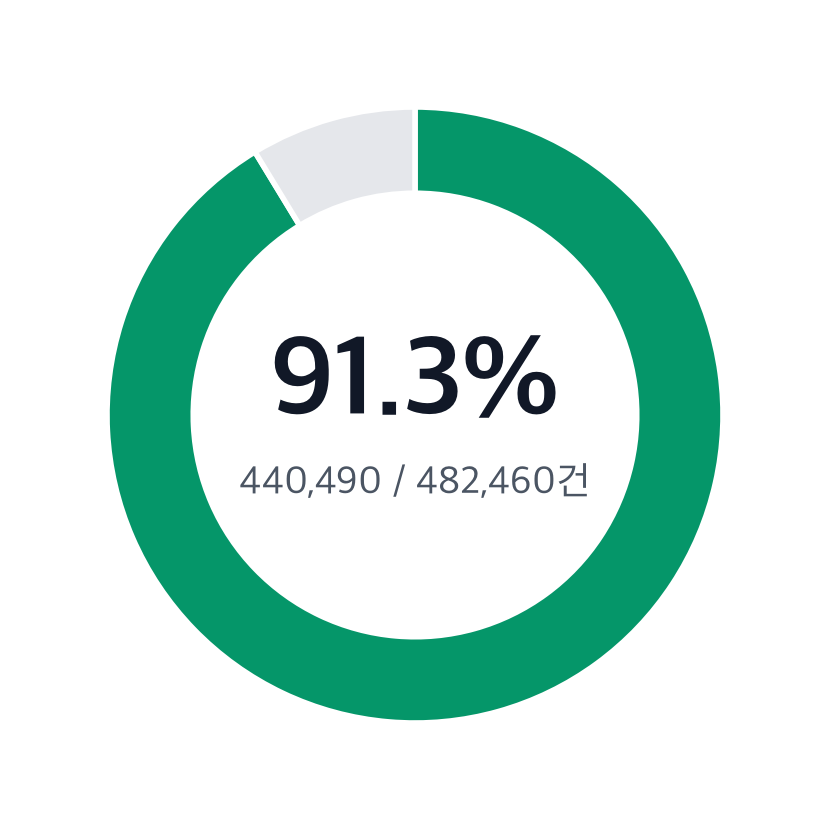
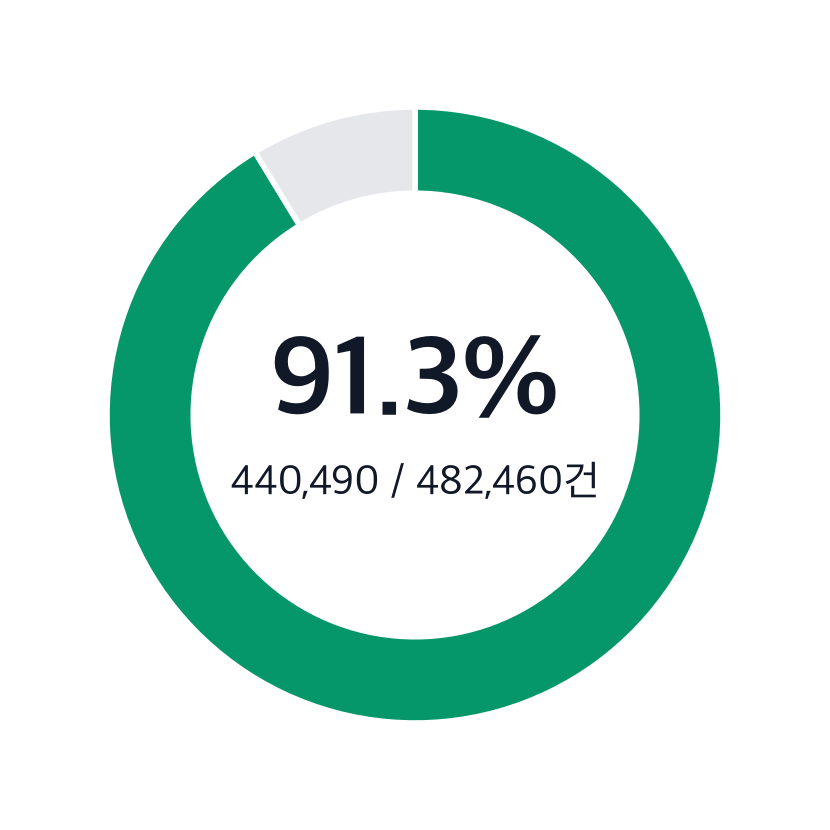
Revise deck per feedback: darker chart text, merge claims into per-work slide, rebuild Meta comparison, add thank-you slide

Changed region(s): [[0.2711, 0.5422, 0.7229, 0.6024]]

diff --git a/index.html b/index.html
@@ -123,11 +123,12 @@ ol.steps li{counter-increment:n;display:flex;gap:20px;align-items:flex-start;fon
 ol.steps li::before{content:counter(n);flex:none;width:44px;height:44px;border-radius:50%;background:var(--sec);color:#fff;font-weight:800;display:flex;align-items:center;justify-content:center;font-size:23px;margin-top:2px}
 ol.steps li b{color:var(--ink)}
 .limits{display:grid;grid-template-columns:1fr 1fr;gap:22px}
-.limit{background:#fff;border:1.5px solid var(--line);border-radius:20px;padding:26px 30px;box-shadow:var(--shadow);display:flex;gap:22px}
+.limit{background:#fff;border:1.5px solid var(--line);border-radius:20px;padding:40px 36px;box-shadow:var(--shadow);display:flex;gap:22px}
 .limit .no{flex:none;width:54px;height:54px;border-radius:14px;background:var(--sec);color:#fff;font-size:28px;font-weight:900;display:flex;align-items:center;justify-content:center}
-.limit h3{font-size:29px;margin-bottom:6px}
-.limit p{font-size:24px;line-height:1.5;color:var(--sub)}
+.limit h3{font-size:36px;margin-bottom:14px}
+.limit p{font-size:29px;line-height:1.6;color:var(--sub)}
 .arrow{font-size:60px;color:var(--sec);font-weight:900;display:flex;align-items:center}
+.vs .card ul{gap:22px;margin-top:10px}.vs .card li{font-size:30px}
 </style>
 </head>
 <body>
@@ -280,7 +281,7 @@ ol.steps li b{color:var(--ink)}
 <section class="slide sec3" data-anim="split">
   <div class="kicker">3. 판단의 흐름</div>
   <h2>첫 쟁점: 앤트로픽의 ‘이용’은 하나인가, 셋인가</h2>
-  <p class="lead">연방대법원 Warhol 판결(2023)은 같은 저작물도 여러 방식으로 쓰일 수 있고 <b>각 이용을 따로 평가</b>해야 한다고 했다. 이 구분이 결론을 좌우했다.</p>
+  <p class="lead">알섭 판사는 같은 책이라도 쓰임새가 다르면 <b>각 이용을 따로 평가</b>해야 한다고 보고, 먼저 앤트로픽의 ‘이용’이 몇 개인지부터 따졌다. 이 구분이 결론을 좌우했다.</p>
   <div class="row mt grow" style="align-items:center">
     <div class="col" style="flex:1">
       <div class="blob a-one" style="border-color:var(--blue-line)"><span class="blue">앤트로픽의 주장</span><br>“용도는 LLM 학습 하나뿐”<small>해적판 다운로드도 결국 학습을 위한 과정이었다</small></div>
@@ -395,57 +396,59 @@ ol.steps li b{color:var(--ink)}
 
 <section class="slide sec4" data-anim="stagger">
   <div class="kicker">합의 결과 · 데이터</div>
-  <h2>작품당 약 3,000달러는 법정 최저액의 4배다</h2>
-  <p class="lead">미국 법정손해배상은 작품당 <b>200~150,000달러</b>다. 실무에서 가장 흔한 액수는 통상 침해 최저액인 <b>750달러</b>이고, 합의액은 그 4배다.</p>
-  <div class="row mt grow" style="align-items:center">
-    <div class="card a-s" style="flex:1.7;display:flex;align-items:center;justify-content:center;padding:24px"><img class="chart" src="assets/chart_perwork.png" alt="작품당 배상 위치(로그 축): 무과실 최저 200달러, 통상 최저 750달러, 합의 약 3,000달러, 법정 최고 150,000달러" style="max-height:520px"></div>
-    <div class="col" style="flex:1">
-      <div class="card c-soft a-s"><h3>법정손해배상이란</h3><p>실제 손해를 증명하지 않아도 법이 정한 범위 안에서 작품당 배상을 받는 제도다.</p></div>
-      <div class="card c-green a-s"><h3>무과실 최저의 15배</h3><p>몰랐던 침해의 최저액 200달러와 비교하면 <b>15배 이상</b>이다.</p></div>
-    </div>
-  </div>
-  <div class="src">출처: Final Approval Order pp. 4, 10, 18 · 그래프: matplotlib (가로축 로그)</div>
-</section>
-
-<section class="slide sec4" data-anim="stagger">
-  <div class="kicker">합의 결과 · 데이터</div>
-  <h2>저작권자 91.3%가 청구했고, 법원은 변호사 보수를 깎았다</h2>
+  <h2>작품당 약 3,000달러, 저작권자 91.3%가 청구했다</h2>
+  <p class="lead">미국 법정손해배상은 작품당 <b>200~150,000달러</b>다. 가장 흔한 액수인 통상 침해 최저액 <b>750달러</b>의 4배가 합의액이고, 대상 작품의 대부분이 실제로 배상을 청구했다.</p>
   <div class="row mt grow">
-    <div class="card a-s" style="flex:0.85;display:flex;flex-direction:column">
+    <div class="card a-s" style="flex:1.55;display:flex;flex-direction:column">
+      <h3>작품당 배상액의 위치 <span style="font-size:22px;color:var(--muted);font-weight:600">(가로축 로그)</span></h3>
+      <div style="flex:1;min-height:0;display:flex;align-items:center;justify-content:center"><img class="chart" src="assets/chart_perwork.png" alt="작품당 배상 위치(로그 축): 무과실 최저 200달러, 통상 최저 750달러, 합의 약 3,000달러, 법정 최고 150,000달러" style="max-height:440px"></div>
+      <p>법정손해배상은 실제 손해를 증명하지 않아도 법이 정한 범위에서 작품당 받는 배상이다. 합의액은 몰랐던 침해의 최저액 200달러와 비교하면 <b>15배 이상</b>이다.</p>
+    </div>
+    <div class="card a-s" style="flex:1;display:flex;flex-direction:column">
       <h3>작품 청구율</h3>
-      <div style="flex:1;min-height:0;display:flex;align-items:center;justify-content:center"><img class="chart" src="assets/chart_claims.png" alt="청구율 91.3%: 482,460건 중 440,490건" style="max-height:430px"></div>
+      <div style="flex:1;min-height:0;display:flex;align-items:center;justify-content:center"><img class="chart" src="assets/chart_claims.png" alt="청구율 91.3%: 482,460건 중 440,490건" style="max-height:400px"></div>
       <p>제외 신청은 <b>350명(1,802건)</b>, 이의·의견은 <b>54건</b>뿐이었다. 법원은 반응이 “압도적으로 호의적”이라고 봤다.</p>
     </div>
-    <div class="card a-s" style="flex:1.15;display:flex;flex-direction:column">
-      <h3>변호사 보수: 요청 → 법원 인정</h3>
-      <div style="flex:1;min-height:0;display:flex;align-items:center;justify-content:center"><img class="chart" src="assets/chart_fees.png" alt="변호사 보수: 최초 요청 3억 달러, 수정 요청 1억 8,750만 달러, 법원 인정 약 1억 156만 달러, lodestar 2,710만 달러" style="max-height:430px"></div>
-      <p>1억 8,750만 달러는 실제 투입 시간 환산액의 <b>6.92배</b>라 과도하다고 봤다. 약 6.8%로 줄였고, 대표 원고 보상도 5만 → <b>1만 5천 달러</b>로 깎았다.</p>
-    </div>
   </div>
-  <div class="src">출처: Final Approval Order pp. 4–6, 14–15, 21–22 · 그래프: matplotlib</div>
+  <div class="src">출처: Final Approval Order pp. 4–6, 10, 18 · 그래프: matplotlib</div>
 </section>
 
 <section class="slide sec4" data-anim="stagger">
   <div class="kicker">4. 메타 사건과의 비교</div>
-  <h2>이틀 뒤, 같은 법원의 다른 판사: Kadrey v. Meta</h2>
-  <p class="lead">메타 사건도 <b>해적판으로 LLM(라마)을 학습</b>시킨 사건이다. 결론은 같았지만, 판사는 “이번엔 원고들이 증명을 못 했을 뿐”이라고 선을 그었다.</p>
-  <div class="row mt grow">
-    <div class="col" style="flex:1">
-      <div class="card a-s"><span class="pill p-blue">2025. 6. 25. · 빈스 차브리아 판사</span><h3>작가 13명 vs 메타</h3><p>메타는 원고들의 책을 최소 <b>666권</b> 내려받아 라마 학습에 썼다.</p></div>
-      <div class="card a-s"><h3>라이선스를 시도했다가 포기</h3><ul><li>AI 학습 권리는 대개 출판사가 아니라 작가에게 있다</li><li>출판사 권리는 지역 단위로 쪼개져 있다</li><li>일부 출판사는 연락을 무시했다</li></ul></div>
+  <h2>같은 해적판, 다른 판단: 앤트로픽 vs 메타</h2>
+  <p class="lead">이틀 뒤 같은 법원에서 메타 사건 판결이 나왔다. 두 회사 모두 <b>해적판으로 LLM을 학습</b>시켰지만, 판사가 무엇을 문제 삼았는지는 정반대였다.</p>
+  <div class="row mt grow vs" style="gap:0;align-items:stretch">
+    <div class="card a-s" style="flex:1;border-top:8px solid var(--blue)">
+      <span class="pill p-blue">앤트로픽 · 알섭 판사 · 2025. 6. 23.</span>
+      <ul>
+        <li><b>원고</b>: 작가 3명 · 9권</li>
+        <li><b>데이터</b>: 해적판 700만 권+ 그리고 종이책 구매·스캔</li>
+        <li><b>판단 방식</b>: 행위를 <b>셋으로 쪼개어</b> 각각 심사</li>
+        <li><b>해적판</b>: <span class="red"><b>그 자체로 침해</b></span>. 학습 목적이어도 면책 안 됨</li>
+        <li><b>시장 희석</b>: 저작권법이 막을 피해가 <b>아니다</b></li>
+        <li><b>결과</b>: 해적판 부분 재판 회부 → <b>15억 달러 합의</b></li>
+      </ul>
     </div>
-    <div class="col" style="flex:1">
-      <div class="card c-red a-s"><h3>해적판을 토렌트로 받았다</h3><ul><li>2022. 10. LibGen에서 받아 학습 가치를 조사</li><li>2023년 봄 라이선스 실패 → 그대로 학습에 사용</li><li>2024년 초 해적판 모음 <b>Anna's Archive</b>까지</li></ul></div>
-      <div class="card c-amber a-s"><h3>결론: 공정이용 — 단, 이 원고들에 한해</h3><p>원고들이 제4요소(시장 피해)를 증명하지 못한 결과일 뿐, <b>AI 학습이 일반적으로 합법이라는 뜻은 아니다</b>.</p></div>
+    <div class="arrow a-s" style="padding:0 22px;font-size:44px;color:var(--muted)">VS</div>
+    <div class="card a-s" style="flex:1;border-top:8px solid #0F766E">
+      <span class="pill" style="background:#0F766E;color:#fff">메타 · 차브리아 판사 · 2025. 6. 25.</span>
+      <ul>
+        <li><b>원고</b>: 작가 13명 · 최소 666권</li>
+        <li><b>데이터</b>: LibGen·Anna's Archive 해적판을 <b>토렌트</b>로 받음</li>
+        <li><b>판단 방식</b>: 취득부터 학습까지 <b>하나로 묶어</b> 심사</li>
+        <li><b>해적판</b>: 최종 목적이 변형적이면 <span class="green"><b>다운로드도 변형적</b></span></li>
+        <li><b>시장 희석</b>: <span class="amber"><b>가장 유력한 피해</b></span>. 이번엔 증거 부족</li>
+        <li><b>결과</b>: 공정이용 — <b>단, 이 원고들에 한해</b></li>
+      </ul>
     </div>
   </div>
-  <div class="src">출처: 이주연(2025) Ⅲ.3 · 세종 뉴스레터(2025. 7. 10.) — 메타 판결문 원문은 자료에 없음</div>
+  <div class="src">출처: Order on Fair Use · 이주연(2025) Ⅲ.3–4 · 세종 뉴스레터(2025. 7. 10.)</div>
 </section>
 
 <section class="slide sec4" data-anim="stagger">
   <div class="kicker">4. 메타 사건과의 비교</div>
-  <h2>결론은 같고, 보는 눈은 반대였다</h2>
-  <p class="lead">노란 줄이 두 판사가 갈린 지점이다. 알섭 판사는 <b>취득 경로</b>에, 차브리아 판사는 <b>시장 피해</b>에 엄격했다.</p>
+  <h2>4요소별로 보면: 갈린 곳은 ‘해적판’과 ‘시장 희석’</h2>
+  <p class="lead">노란 줄이 두 판사가 갈린 지점이다. 알섭 판사는 <b>데이터를 어떻게 구했는지</b>에, 차브리아 판사는 <b>AI 결과물이 시장을 잠식하는지</b>에 엄격했다.</p>
   <div class="mt a-s">
   <table>
     <tr><th style="width:22%">비교 항목</th><th style="width:38%">앤트로픽 사건 (알섭 판사)</th><th>메타 사건 (차브리아 판사)</th></tr>
@@ -467,7 +470,7 @@ ol.steps li b{color:var(--ink)}
   <p class="lead">학습이 변형적이라는 데는 이견이 없다. 그래서 저작권자가 이길 길은 <b>제4요소(시장 피해)</b>뿐이고, 판사는 그 경로를 셋으로 정리했다.</p>
   <div class="theories mt">
     <div class="theory a-s"><span class="pill p-gray" style="align-self:flex-start">이론 ①</span><h3>재출력</h3><p>AI가 원작을 그대로 또는 비슷하게 출력해서, 사용자가 책을 사지 않고 무료로 보게 된다.</p><div class="r" style="background:var(--red-bg);color:var(--red)">✖ 라마는 책을 의미 있는 분량으로 출력하지 않음</div></div>
-    <div class="theory a-s"><span class="pill p-gray" style="align-self:flex-start">이론 ②</span><h3>학습용 라이선스 시장 훼손</h3><p>무단 학습 때문에 ‘AI 학습용 라이선스’라는 새 시장이 망가진다.</p><div class="r" style="background:var(--red-bg);color:var(--red)">✖ 변형적 이용의 라이선스료 상실은 손해로 보지 않음</div></div>
+    <div class="theory a-s"><span class="pill p-gray" style="align-self:flex-start">이론 ②</span><h3>학습용 라이선스 시장 훼손</h3><p>무단 학습 때문에 ‘AI 학습용 라이선스’라는 새 시장이 망가진다. 그러나 이를 인정하면 어떤 이용이든 “라이선스를 받았어야 한다”고 할 수 있어 저작권자가 항상 이긴다.</p><div class="r" style="background:var(--red-bg);color:var(--red)">✖ 순환논리 → 변형적 이용의 라이선스료 상실은 손해 아님</div></div>
     <div class="theory a-s c-amber" style="border-width:2.5px"><span class="pill p-amber" style="align-self:flex-start">이론 ③</span><h3>시장 희석</h3><p>같은 주제·장르의 AI 작품이 쏟아져 원작을 <b>간접적으로 대체</b>한다. 사람이 쓴 로맨스 소설 대신 AI 로맨스 소설을 사는 경우다.</p><div class="r" style="background:#fff;color:var(--amber)">△ 주장 자체는 유효, 원고는 추측만 제시</div></div>
   </div>
   <div class="card c-soft a-s" style="margin-top:28px"><p>희석 피해는 모두에게 같지 않다. 유명 작가보다 <b>신진 작가</b>가, 소설보다 뉴스·논픽션 같은 <b>기능적 저작물</b>이 더 쉽게 대체된다.</p></div>
@@ -492,28 +495,15 @@ ol.steps li b{color:var(--ink)}
   <div class="src">출처: 판결문 · 이주연(2025) · 세종 뉴스레터 종합</div>
 </section>
 
-<section class="slide sec5" data-anim="verdicts">
-  <div class="kicker">5. 쟁점과 시각</div>
-  <h2>같은 문제, 세 가지 시각</h2>
-  <p class="lead">두 판사와 국내 학계(이주연 교수)는 무엇을 가장 중요하게 보느냐에서 갈린다.</p>
-  <div class="verdicts mt grow">
-    <div class="verdict a-v c-blue" style="color:var(--blue)"><div class="n">기술 우호 · 취득 엄격형</div><h3 style="color:var(--ink)">알섭 판사</h3><p>학습은 “우리 생애 가장 변형적인 기술 중 하나”다. 하지만 살 수 있는 책을 훔치는 것은 안 된다.</p><div class="v" style="font-size:28px;color:var(--ink)">“AI 기업을 위한 저작권법의 예외는 없다.”</div></div>
-    <div class="verdict a-v c-amber" style="color:var(--amber)"><div class="n">시장 중시형</div><h3 style="color:var(--ink)">차브리아 판사</h3><p>취득 경로보다 시장 피해가 핵심이다. 증거만 있었다면 결론은 달랐을 수 있다.</p><div class="v" style="font-size:28px;color:var(--ink)">“많은 경우 허락 없는 학습은 위법하고, AI 기업은 대가를 치를 방법을 찾을 것이다.”</div></div>
-    <div class="verdict a-v c-green" style="color:var(--green)"><div class="n">라이선스 시장 인정형</div><h3 style="color:var(--ink)">이주연 교수</h3><p>두 판결 모두 문제가 있다. 학습에 대가를 치르는 시장이 실제로 생기고 있다.</p><div class="v" style="font-size:28px;color:var(--ink)">“학습용 라이선스 시장을 잠재적 시장으로 인정했어야 한다.”</div></div>
-  </div>
-  <div class="src">출처: Order on Fair Use pp. 13, 30 · 이주연(2025) Ⅲ.3, Ⅳ.4, Ⅴ</div>
-</section>
-
 <section class="slide sec6" data-anim="stagger">
   <div class="kicker">6. 한계와 의의</div>
-  <h2>이 판단의 한계 다섯 가지</h2>
+  <h2>이 판단의 한계 네 가지</h2>
   <p class="lead">최초의 판단이지만 <b>1심 약식판결</b>이고, 합의로 끝나 항소심 판단을 받지 못했다. 영향력을 과대평가해서는 안 된다.</p>
-  <div class="limits mt">
+  <div class="limits mt grow" style="grid-auto-rows:1fr">
     <div class="limit a-s"><div class="no">1</div><div><h3>1심·개별 사건이다</h3><p>클로드라는 특정 모델과 이 사건 사실관계에 대한 판단이다. 모든 LLM에 적용되는 원칙이 아니다.</p></div></div>
     <div class="limit a-s"><div class="no">2</div><div><h3>출력 문제는 다루지 않았다</h3><p>‘침해 출력은 없다’는 전제 위의 판단이다. 모델이 책을 그대로 내놓으면 결론이 달라질 수 있다.</p></div></div>
     <div class="limit a-s"><div class="no">3</div><div><h3>라이선스 시장을 충분히 심리하지 않았다</h3><p>시장이 생길 수 있다고 가정하고도 배척했다. 변형적이기만 하면 제4요소 문턱이 낮아진다는 비판이 있다.</p></div></div>
-    <div class="limit a-s"><div class="no">4</div><div><h3>“책 한 권 값으로 무제한 학습”</h3><p>1권을 사서 디지털화해 반복 학습해도 모두 공정이용이 된다. 학술지를 복사해 돌린 Texaco는 공정이용이 부정됐다.</p></div></div>
-    <div class="limit a-s" style="grid-column:span 2"><div class="no">5</div><div><h3>판단 유보와 좁은 합의</h3><p>학습 외 용도 사본은 판단하지 않았다. 합의는 2025. 8. 25. 이전의 ‘입력’과 작품 목록에 오른 작품만 면책한다.</p></div></div>
+        <div class="limit a-s"><div class="no">4</div><div><h3>판단 유보와 좁은 합의</h3><p>학습 외 용도 사본은 판단하지 않았다. 합의는 2025. 8. 25. 이전의 ‘입력’과 작품 목록에 오른 작품만 면책한다.</p></div></div>
   </div>
   <div class="src">출처: 이주연(2025) Ⅲ.4, Ⅴ · Order on Fair Use pp. 30–31 · Final Approval Order p. 11</div>
 </section>
@@ -538,6 +528,12 @@ ol.steps li b{color:var(--ink)}
     </ul></div>
   </div>
   <div class="src">출처: 이주연(2025) · 세종 뉴스레터 · Final Approval Order</div>
+</section>
+
+<section class="slide title-slide sec1" data-anim="title" style="align-items:center;text-align:center">
+  <h1 class="a-in" style="font-size:150px">감사합니다</h1>
+  <div class="sub a-in" style="margin-top:40px">앤트로픽 vs 바츠 — AI 학습과 공정이용</div>
+  <div class="a-in" style="margin-top:70px;font-size:38px;font-weight:700;color:var(--ink)">문헌정보학과 202406224 홍현아</div>
 </section>
 
 </div></div>

diff --git a/viz/charts.py b/viz/charts.py
@@ -14,7 +14,7 @@ plt.rcParams.update({
     "font.family": "Apple SD Gothic Neo",
     "axes.unicode_minus": False,
     "text.color": "#111827", "axes.labelcolor": "#4B5563",
-    "xtick.color": "#4B5563", "ytick.color": "#111827",
+    "xtick.color": "#111827", "ytick.color": "#111827",
     "axes.edgecolor": "#D1D5DB", "font.size": 15,
 })
 INK, MUTED, GRID = "#111827", "#4B5563", "#E5E7EB"
@@ -45,9 +45,10 @@ for b, t in zip(bars, txt):
             va="center", fontsize=17, fontweight="bold", color=INK)
 ax.set_xlim(0, 6_300_000)
 ax.xaxis.set_major_formatter(matplotlib.ticker.FuncFormatter(lambda v, _: f"{v/1e6:.0f}백만" if v else "0"))
-ax.grid(axis="x", color=GRID, lw=1)
+ax.grid(axis="x", color="#CBD5E1", lw=1)
 ax.set_axisbelow(True)
-ax.tick_params(axis="y", length=0, labelsize=15)
+ax.tick_params(axis="y", length=0, labelsize=17)
+ax.tick_params(axis="x", labelsize=15, colors=INK)
 clean(ax)
 save(fig, "chart_pirated.png")
 
@@ -63,7 +64,7 @@ for v, lab, c in pts:
     big = c == GREEN
     ax.scatter([v], [0], s=520 if big else 220, color=c, zorder=3, edgecolor="white", lw=2)
     ax.text(v, 0.42, f"${v:,}", ha="center", fontsize=24 if big else 18, fontweight="bold", color=c if big else INK)
-    ax.text(v, -0.42, lab, ha="center", va="top", fontsize=14, color=c if big else MUTED, linespacing=1.3)
+    ax.text(v, -0.42, lab, ha="center", va="top", fontsize=15, color=c if big else INK, linespacing=1.3)
 ax.annotate("", xy=(3000, 0.95), xytext=(750, 0.95),
             arrowprops=dict(arrowstyle="->", color=AMBER, lw=2))
 ax.text(1500, 1.05, "통상 최저의 4배", ha="center", fontsize=15, color=AMBER, fontweight="bold")
@@ -76,7 +77,7 @@ fig, ax = plt.subplots(figsize=(5, 5))
 ax.pie([claimed, total - claimed], colors=[GREEN, "#E5E7EB"], startangle=90, counterclock=False,
        wedgeprops=dict(width=0.28, edgecolor="white", linewidth=2))
 ax.text(0, 0.1, f"{claimed/total*100:.1f}%", ha="center", va="center", fontsize=40, fontweight="bold", color=INK)
-ax.text(0, -0.22, f"{claimed:,} / {total:,}건", ha="center", va="center", fontsize=14, color=MUTED)
+ax.text(0, -0.22, f"{claimed:,} / {total:,}건", ha="center", va="center", fontsize=15, color=INK)
 ax.set(aspect="equal")
 save(fig, "chart_claims.png")
 
